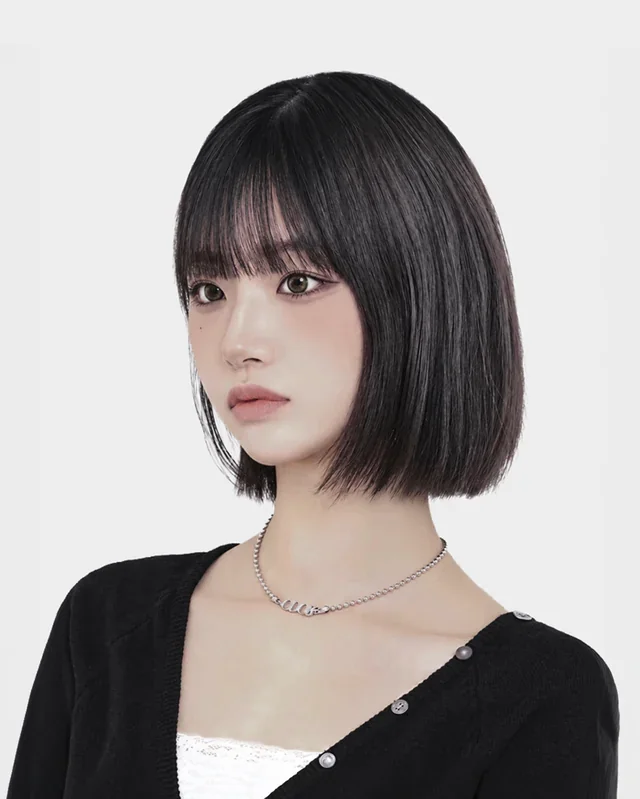
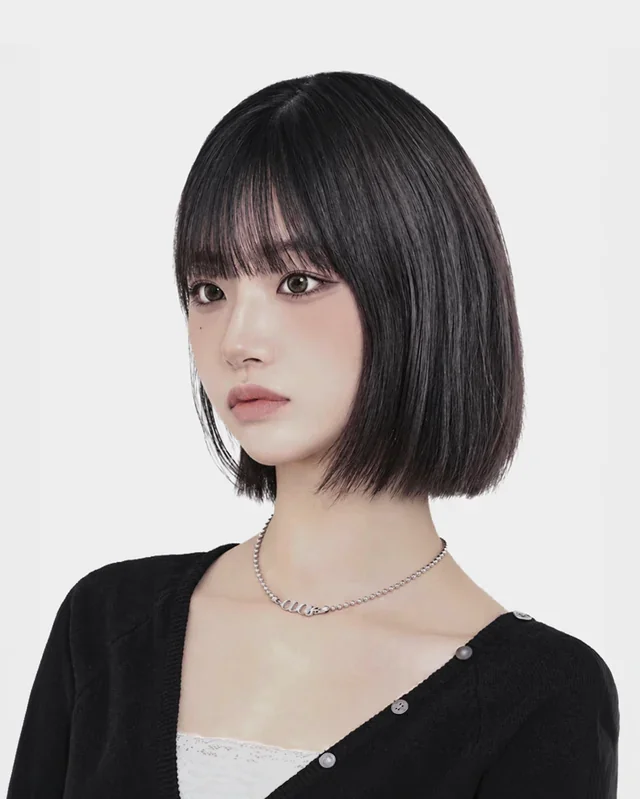
오지샘 위원 사진: 아래 흰 이너 밝기 낮춤 (tone-match --dim-white 0.86)

Changed region(s): [[0.25, 0.9011, 0.5312, 1.0]]

diff --git a/src/app/2026/_components/committee.tsx b/src/app/2026/_components/committee.tsx
@@ -13,7 +13,7 @@ export const TEAMS: Team[] = [
 
 // 사진: 자유컷(work/data/designers/pose)을 칸 비율로 가로 가운데·위 기준으로 잘라 640px WebP로 public/2026/committee/에.
 // 이수민(56)·오지샘(57)은 졸준위만 하고 졸전자가 아니라 자유컷만 있음 (오지샘 자유컷은 2026-10-23 받은 p57-오지샘.png로 교체 완료 — 혼자 피부가 밝고 대비가 강해서
-// scripts/tone-match.py --strength 0.8 --desat -0.4 --cool 6 --magenta 3으로 다른 사진들 피부톤에 맞춤(생기는 장서영·양성은·정예원 수준, 쿨한 분홍기). profile-photos.py로 다시 만들면 이것도 다시)
+// scripts/tone-match.py --strength 0.8 --desat -0.4 --cool 6 --magenta 3 --dim-white 0.86으로 다른 사진들 피부톤에 맞춤(생기는 장서영·양성은·정예원 수준, 쿨한 분홍기 / 아래 흰 이너는 대비가 세서 밝기만 낮춤). profile-photos.py로 다시 만들면 이것도 다시)
 // d = 데스크탑·태블릿 [칸, 줄], m = 모바일 [칸, 줄] (Figma iPhone 390: 4칸 × 4줄, 빈칸 유지)
 export const MEMBERS: { name: string; team: string; photo?: string; d: [number, number]; m: [number, number] }[] = [
   { name: "장서영", photo: "/2026/committee/p41-jang-seoyeong.webp", team: "po", d: [1, 1], m: [1, 1] },

diff --git a/scripts/tone-match.py b/scripts/tone-match.py
@@ -7,10 +7,11 @@
   3) 그래도 혼자 웜하면 피부 쪽만 채도를 줄이고(--desat) 빨강을 조금 빼고 파랑을 조금 더함(--cool)
   4) 너무 창백해지면 피부 쪽 채도를 올리되(--desat 음수, 입술·볼처럼 이미 진한 곳은 제외) 초록을 조금 빼서
      웜하지 않은 쿨한 분홍기로(--magenta). --pink(빨강 +)는 너무 빨개져서 오지샘 사진엔 안 씀
+  5) 아래쪽 흰 옷이 너무 밝아 튀면 밝기만 낮춤(--dim-white)
 기준 사진은 같은 폴더의 다른 WebP 전부.
 
 실행 (site.2026 폴더에서, Pillow·numpy 필요) — profile-photos.py를 다시 돌렸다면 이것도 다시:
-  python3 scripts/tone-match.py public/2026/committee/p57-oh-jisaem.webp --strength 0.8 --desat -0.4 --cool 6 --magenta 3
+  python3 scripts/tone-match.py public/2026/committee/p57-oh-jisaem.webp --strength 0.8 --desat -0.4 --cool 6 --magenta 3 --dim-white 0.86
 """
 import argparse
 from pathlib import Path
@@ -60,6 +61,7 @@ def main() -> None:
     ap.add_argument("--cool", type=float, default=0.0, help="피부 쪽 빨강을 뺄 양(파랑은 그 0.6배 더함)")
     ap.add_argument("--pink", type=float, default=0.0, help="피부 쪽 빨강을 더할 양(초록은 그 0.6배 뺌)")
     ap.add_argument("--magenta", type=float, default=0.0, help="피부 쪽 초록만 뺄 양 — 웜하지 않은(쿨한) 분홍기")
+    ap.add_argument("--dim-white", type=float, default=1.0, help="아래쪽 가운데 흰 옷의 밝기 배율(1 = 그대로, 0.85면 255→217)")
     a = ap.parse_args()
 
     target = Path(a.target)
@@ -95,6 +97,18 @@ def main() -> None:
         f[..., 1] -= a.pink * 0.6 * warm[..., 0]
         f[..., 1] -= a.magenta * warm[..., 0]
         out = np.clip(f, 0, 255).round().astype(np.uint8)
+    if a.dim_white != 1.0:
+        # 검정 옷 사이로 보이는 흰 옷(오지샘 레이스 이너)이 대비가 너무 세서 혼자 튐 → 밝기만 낮춤.
+        # 아래 22%·가운데 60% 안의 밝고 무채색인 픽셀만(피부는 웜해서, 배경은 그 범위에 없어서 제외), 경계는 부드럽게
+        f = out.astype(float)
+        h, w, _ = f.shape
+        lum = f.mean(axis=-1)
+        neutral = np.clip(1 - (f[..., 0] - f[..., 2] - 6) / 8, 0, 1)
+        bright = np.clip((lum - 150) / 50, 0, 1)
+        area = np.zeros((h, w))
+        area[int(h * 0.78) :, int(w * 0.2) : int(w * 0.8)] = 1
+        k = (neutral * bright * area)[..., None]
+        out = np.clip(f * (1 + (a.dim_white - 1) * k), 0, 255).round().astype(np.uint8)
     # WebP(손실) 저장은 평평한 회색 238을 239로 1 올려 버림 → 배경이 다른 사진들과 같은 238로 남도록 미리 237로 넣어 둠
     out[(out == BG).all(axis=-1)] = BG - 1
     Image.fromarray(out).save(target, "WEBP", quality=85, method=6)
